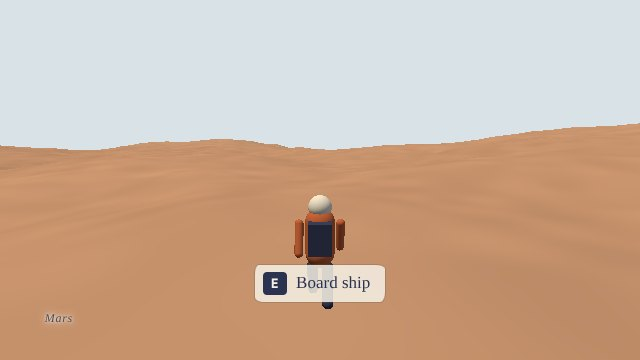
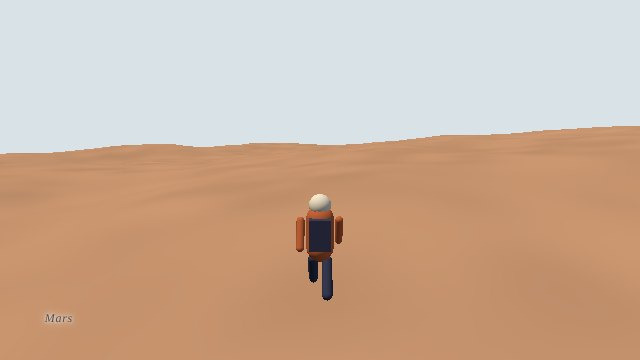
[pilot] Lead review 2: Painter's three MUST FIX closed with measurements (M1 met); canopyHeight in the ship cushion; boom 6.4 m; pointer-lock fallback holds back nonsense; README for M2

diff --git a/src/player/camera.js b/src/player/camera.js
@@ -15,7 +15,7 @@ export const CAMERA = Object.freeze({
   fovShipFast: 72,           // at full speed
   pitchMin: -1.15,           // rad: looking down
   pitchMax: 1.25,            // rad: looking up
-  boom: 5.6,                 // metres behind the explorer
+  boom: 6.4,                 // metres behind the explorer (longer while the explorer is a placeholder)
   boomMin: 2.2,
   boomMax: 14,
   pivotHeight: 2.05,         // the boom pivots above the head so the landscape fills the frame

diff --git a/docs/lead/REVIEW.md b/docs/lead/REVIEW.md
@@ -10,6 +10,89 @@ are relative, never a claim about a real GPU.
 
 ---
 
+## Review 2: 2026-11-11, at commit `a9c02bc` (includes Painter's `b2bfcae` and `6a31de3`, Physics' `b0ad22b`)
+
+What I ran:
+- The same frame-cost probe as review 1, in the integrated game from a clean export
+  (480x270, counters from the game's own read-out, `?stats=1`), at quality 0, 1 and 2.
+- `gallery.html?...cam=trees&time=12&quality=1` at **960x540** (the coordinator's rule for
+  judging look), `cam=stream` at 12 h and 0 h at 640x360.
+- `node --test src/world/*.test.mjs`, `node --test src/physics/` (125 pass),
+  `node --test tests/*.test.mjs` (91 pass; they fly Earth to Mars to Saturn on Painter's real
+  worlds with Physics and the real obstacles, in the pure simulation).
+
+### PAINTER: M1 is met
+
+MUST FIX from review 1, all three **closed**:
+
+1. **Frame cost: closed.** Measured in the integrated game:
+
+   | view (quality 1) | triangles | draw calls | review 1 |
+   | --- | --- | --- | --- |
+   | standing at the spawn | 564 k | 334 | 4.36 M, 887 |
+   | running | 529 k | 307 | 4.57 M, 848 |
+   | flying at 120 m | 217 k | 143 | 1.47 M, 262 |
+   | orbit at 5 km | 46 k | 41 | 43 k, 41 |
+
+   Quality 0 at the spawn: 289 k, 206 calls. Quality 2: 708 k, 381 calls. All inside the budget
+   (600 k / 350, 300 k, 1.2 M). Software GL at the same viewport went from 0.7 to about 3 fps.
+2. **Stippled foliage: closed.** `docs/lead/evidence/painter-a9c02bc-gallery-trees-noon.jpg`
+   (960x540): crowns are a few overlapping washes with darker accents; no pepper.
+3. **Ruler-straight lines: closed.** Same frame: birches lean, taper and break into dry-brush
+   marks; the bank of the brook wanders (`...-stream-noon.jpg`).
+
+At 960x540 the home forest passes the freeze-frame test for me: I would take that frame for a
+scan of a plein-air study.
+
+SHOULD FIX (carried or new; none blocks)
+
+4. **Build hitches, still.** `world.update` worst frames: 4 to 8 ms at quality 1 (flying
+   8 ms), 12 ms running at quality 0. Budget 5 ms. Better than the 34 ms of review 1, not yet
+   inside. The frame read-out now shows `world` ms live (` key).
+5. **Shade is dark green, not a cool glaze.** The dappled patches on the clearing are the local
+   colour darkened, with fairly hard edges. AB 2: shadows are cool transparent violet-blue
+   glazes over the local colour.
+6. **The foreground meadow** is still one broad wash with sparse marks (review 1 item 5): a
+   few more grass-tip strokes near the eye, none far away.
+7. **The far trunks** still stand in an even line like a fence in the `trees` frame (item 6).
+8. Night (`...-stream-night.jpg`) is better: trunks take the glaze. Dusk and space unchanged
+   from review 1 items 7 and 8; M3 scope.
+9. `sampleObstacles` returns at most about 260 entries at large radii. Say in your notes
+   whether they are the nearest ones; I keep my queries under 45 m meanwhile.
+
+GOOD (new)
+
+- `canopyHeight` on `sampleSurface`: wired into the ship's cushion the same hour; a low pass
+  over the real forest keeps the hull above every tree top (`tests/contract.test.mjs`).
+- Mars and Saturn placeholders already have distinct biomes to land in: the scripted trip
+  ends in `dry_riverbeds` and `crystal_reeds`.
+
+Answers to PAINTER's questions: the default boom is now 6.4 m (was 5.6) until the real
+explorer exists. `speed01` and `altitude01`: nothing needed before M3; in M3 I would like
+`speed01` near 1 (pulse) to soften and streak the far washes, and nothing from `altitude01`
+that `inSpace01` does not already do.
+
+### PHYSICS: P1 accepted by the coordinator; wiring done
+
+- All of the wiring guide is in (commit after `a9c02bc`): `createPhysics`, `warmUp`,
+  `physics.update` once a frame before `world.update`, `world.setPhysics`, the explorer through
+  `stepExplorerBody` (with `assistAccel` 4, `jetMaxRise`, `descentLimit`), the ship through
+  `stepShipBody` (`carve01: 1`, assists applied to the target), landing sites by friction, the
+  parked ship on `stepShipGear`. Measured in my loop tests: `physics.update` averages 0.3 to
+  0.5 ms; the gear settles and sleeps on Earth, the Moon and Jupiter.
+- One assist I added that PHYSICS should know about and may want to model: in vacuum, X or
+  throttling down brakes with the drive field (the kinematic rate) instead of the 14 m/s2
+  retro thrusters, because stopping from 750 m/s took over a minute and "let go and it stops"
+  is the promise of the ship (`R-SHIP-1`). A `brake` command in `stepShipBody` with a named
+  field deceleration would let me drop my special case.
+- SHOULD FIX: the climb to space takes 10.9 s through the body (18 s kinematic). It is within
+  PHYSICS' own measurement (12.9 s) but shorter than I want for the atmosphere transition;
+  I will lower my commanded envelope rather than ask for less thrust.
+- GOOD: the lab page and twelve evidence shots exist now; the guide and the replacement
+  tables were exactly what was asked for; the reference checks came back with measurements.
+
+---
+
 ## Review 1: 2026-11-11, at commit `19f72ce`
 
 What I ran:
